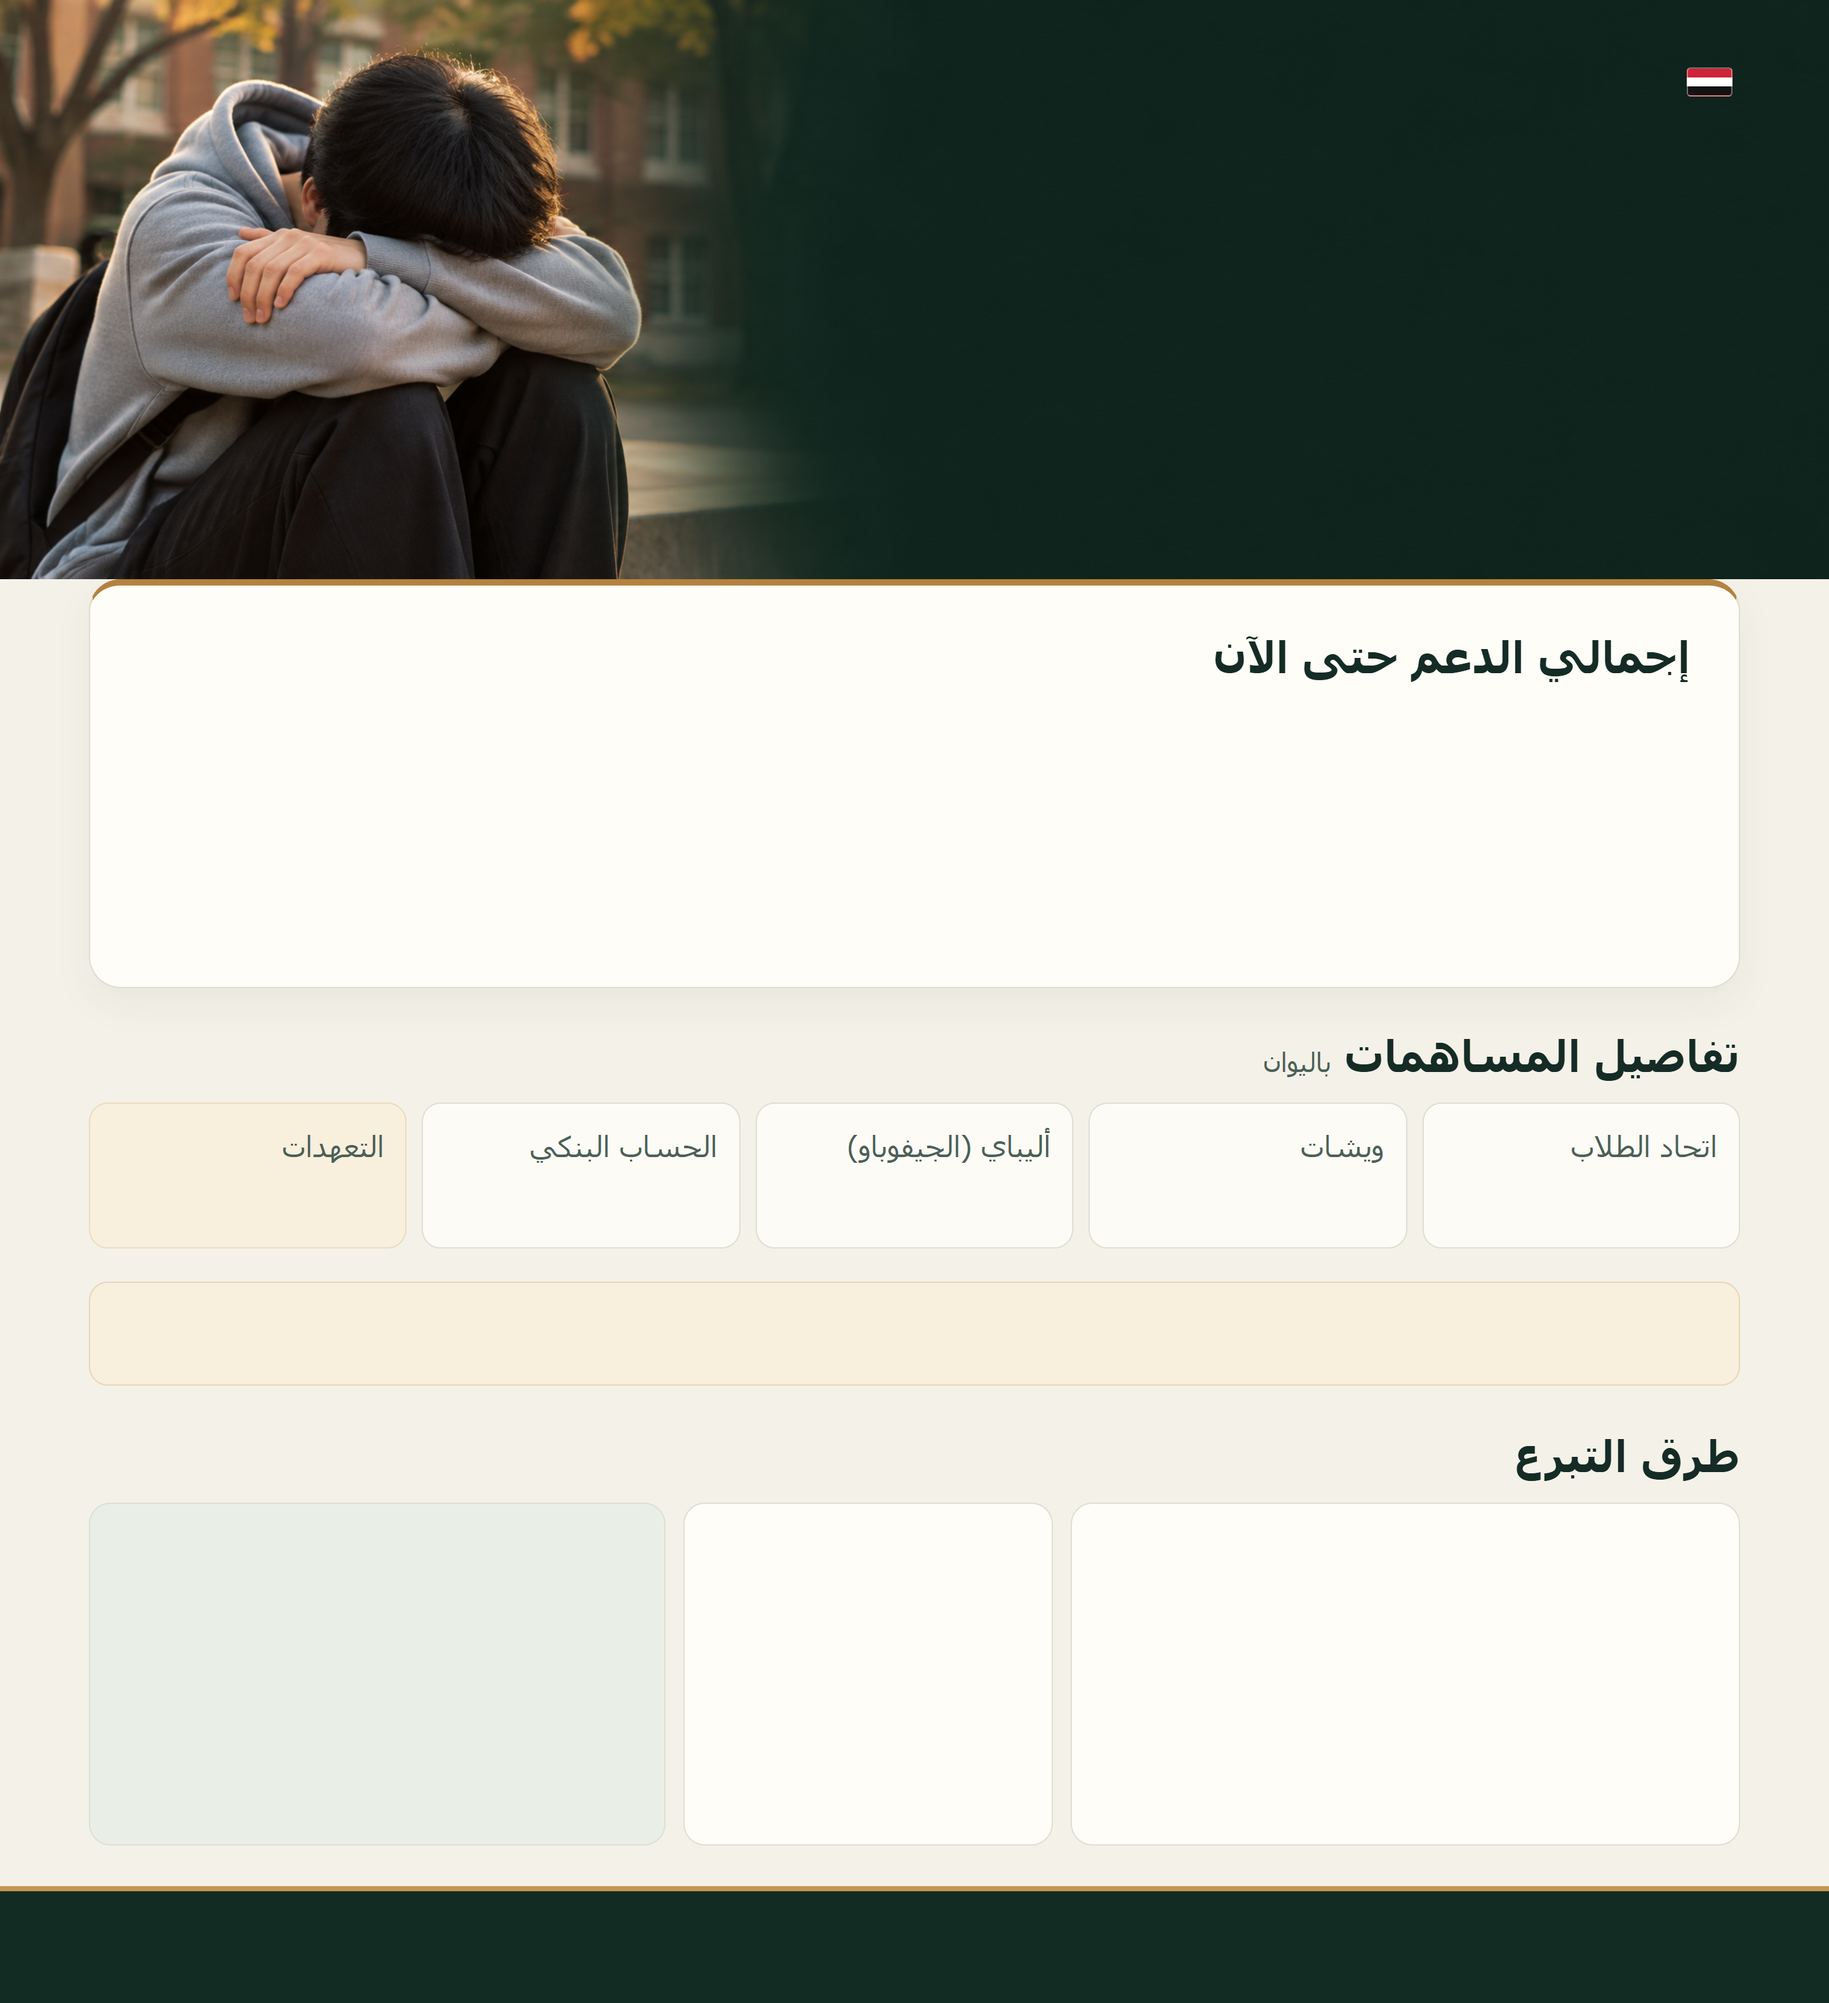
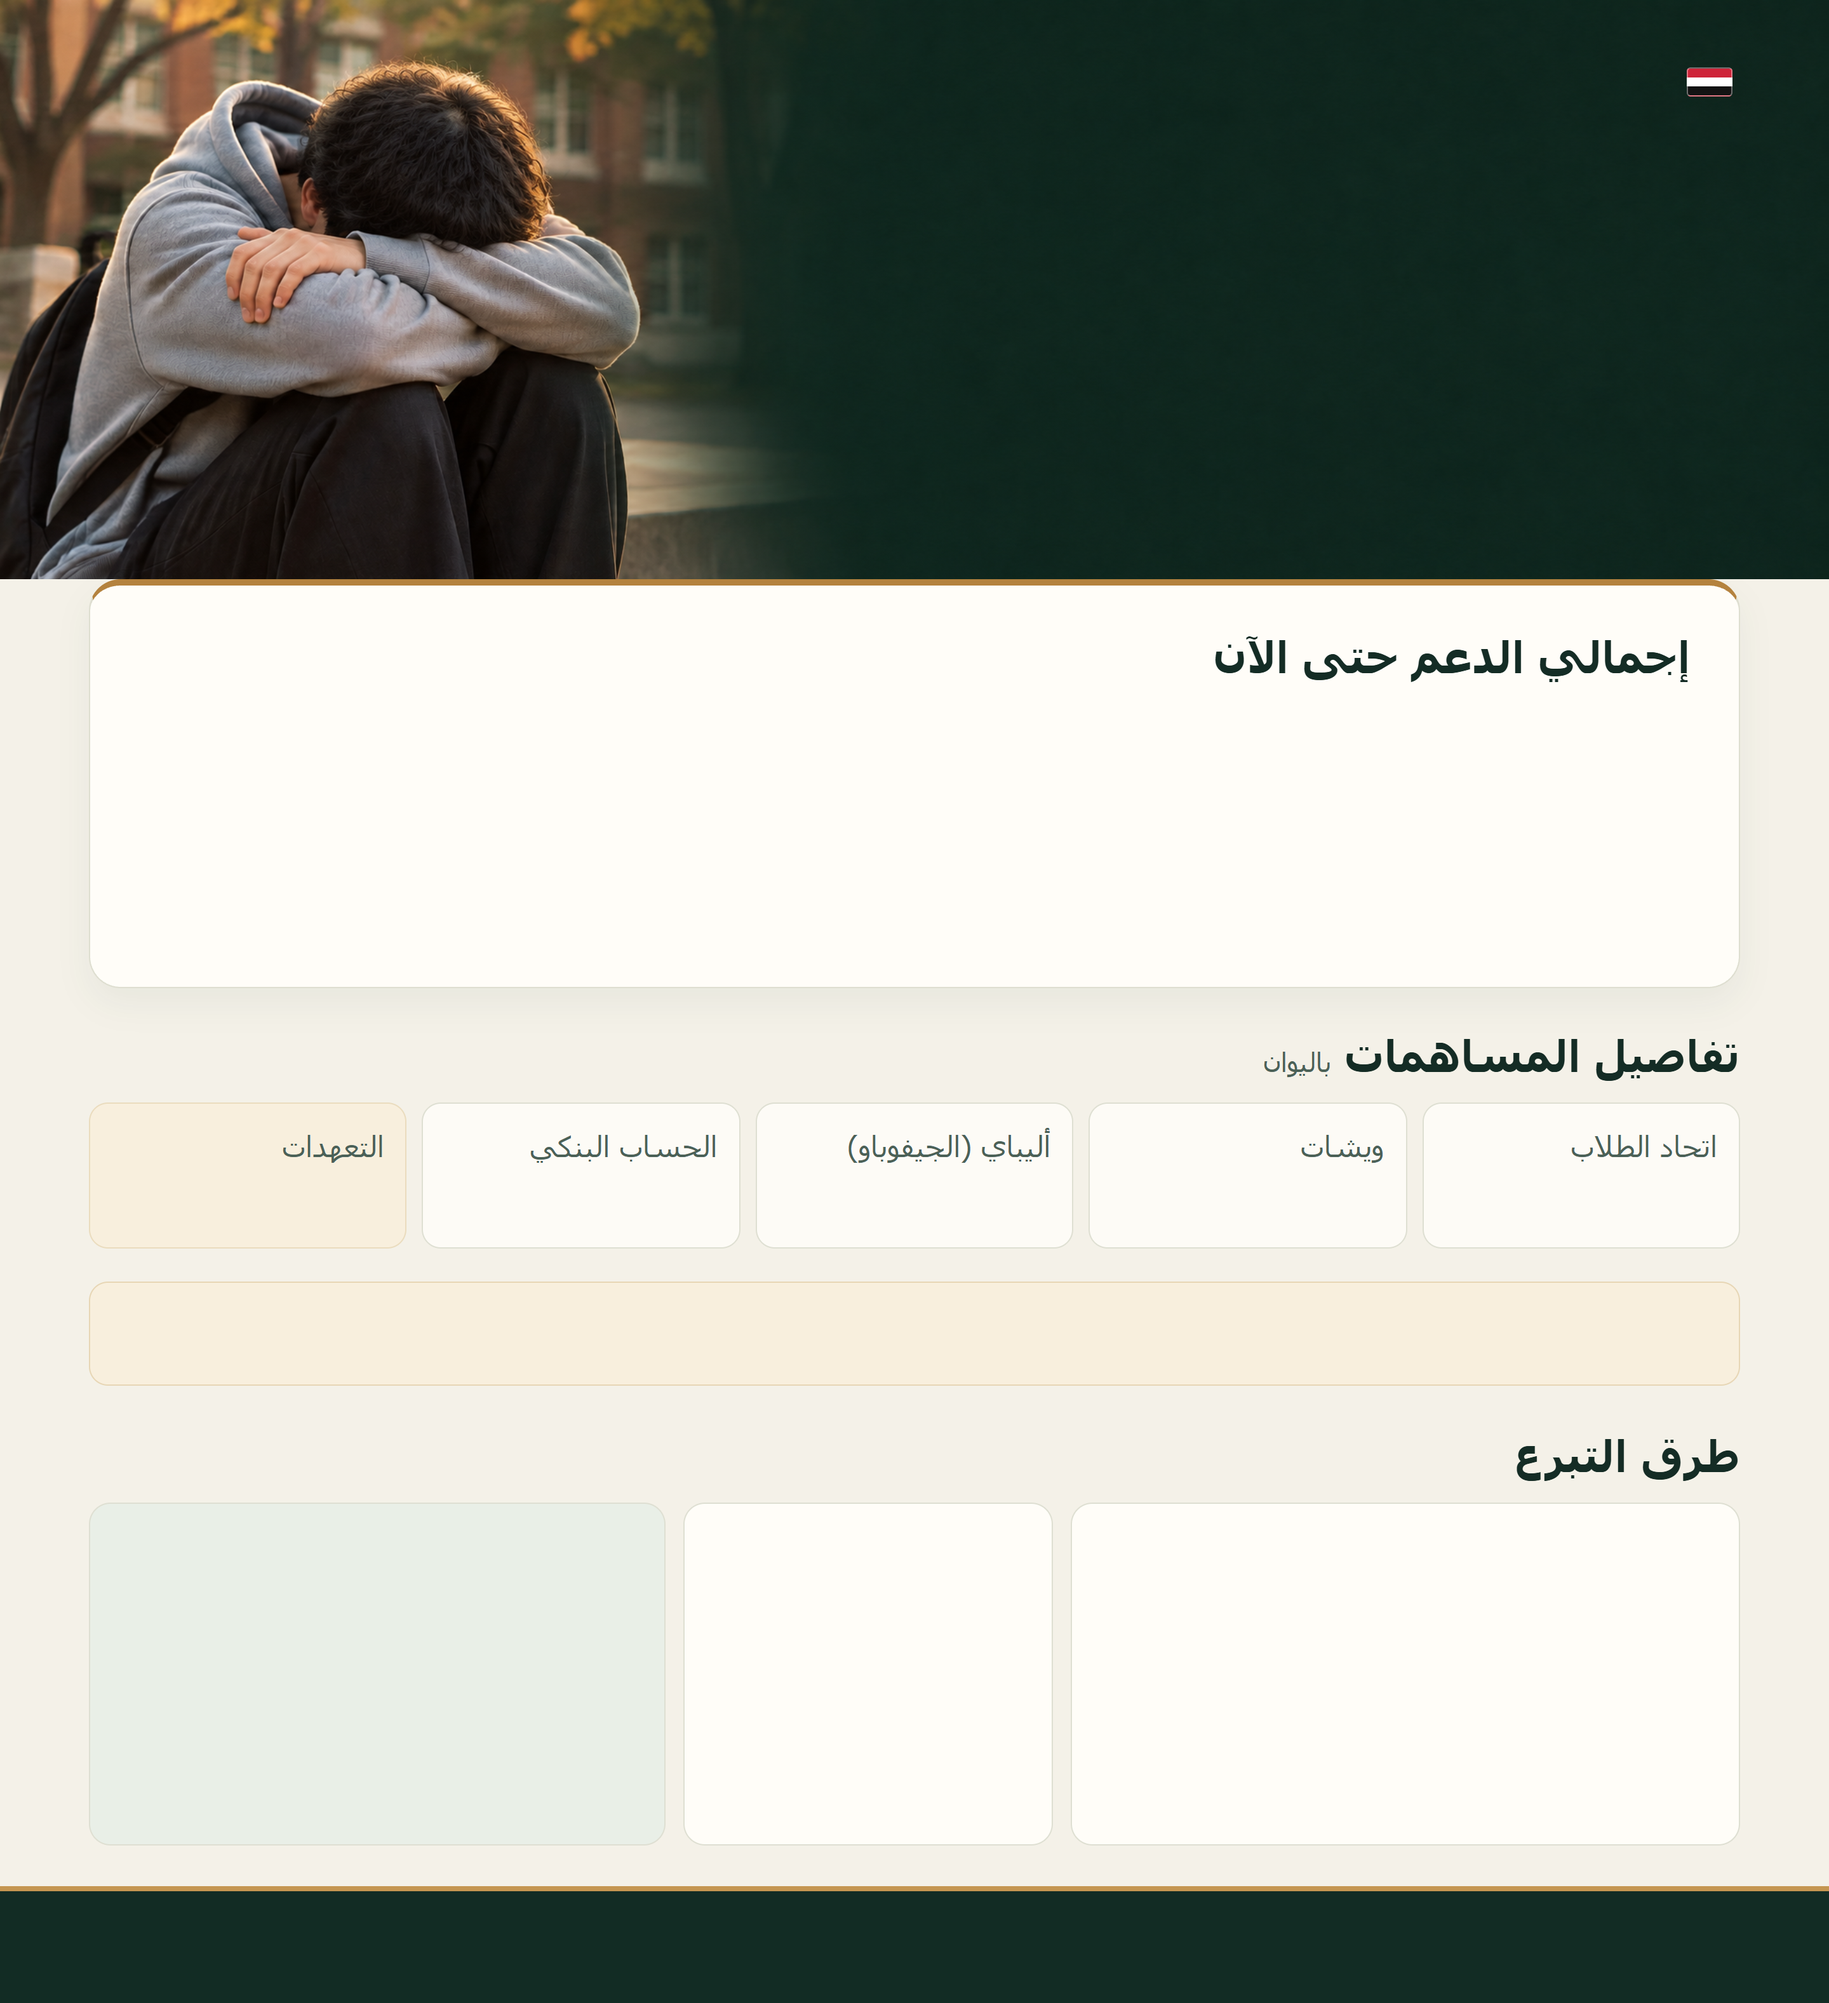
Refine the anonymous student portrait

Changed region(s): [[0.125, 0.0, 0.3125, 0.1554], [0.3125, 0.2486, 0.3438, 0.2796]]

diff --git a/app.js b/app.js
@@ -389,4 +389,4 @@ template.addEventListener("load", async () => {
   update();
 });
 template.addEventListener("error", () => feedback("تعذّر تحميل قالب الملصق. أعد تحميل الصفحة."));
-template.src = "poster-template.png?v=5";
+template.src = "poster-template.png?v=6";

diff --git a/index.html b/index.html
@@ -8,7 +8,7 @@
   <link rel="stylesheet" href="style.css?v=5">
   <script src="campaign.js" defer></script>
   <script src="poster-content.js?v=4" defer></script>
-  <script src="app.js?v=5" defer></script>
+  <script src="app.js?v=6" defer></script>
 </head>
 <body>
   <header class="header">
